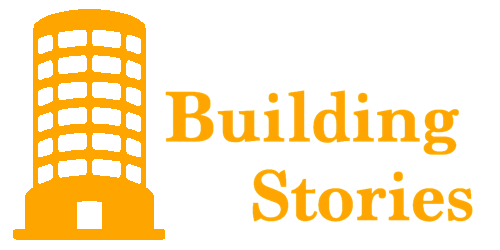
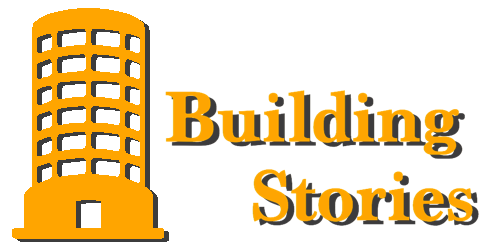
navbar CSS adjustments

diff --git a/app/assets/stylesheets/application.css.scss b/app/assets/stylesheets/application.css.scss
@@ -27,7 +27,7 @@ body {
 #custom-nav {
   color: orange;
   height: 70px;
-  background-color: rgba(0,0,0,0);
+  background-color: rgba(44, 189, 154, .8);
   border: 0;
   box-shadow: none;
   z-index: 999;
@@ -40,6 +40,7 @@ body {
 
 #custom-nav a {
   color: orange;
+  text-shadow: 2px 1px rgb(77, 77, 77);
 }
 
 #custom-nav .dropdown-menu {
@@ -248,7 +249,6 @@ body {
 }
 
 .nameme {
-  background-color: rgb(199, 196, 194);
   text-align: center;
   margin-top: 20%;
   padding: 0;
